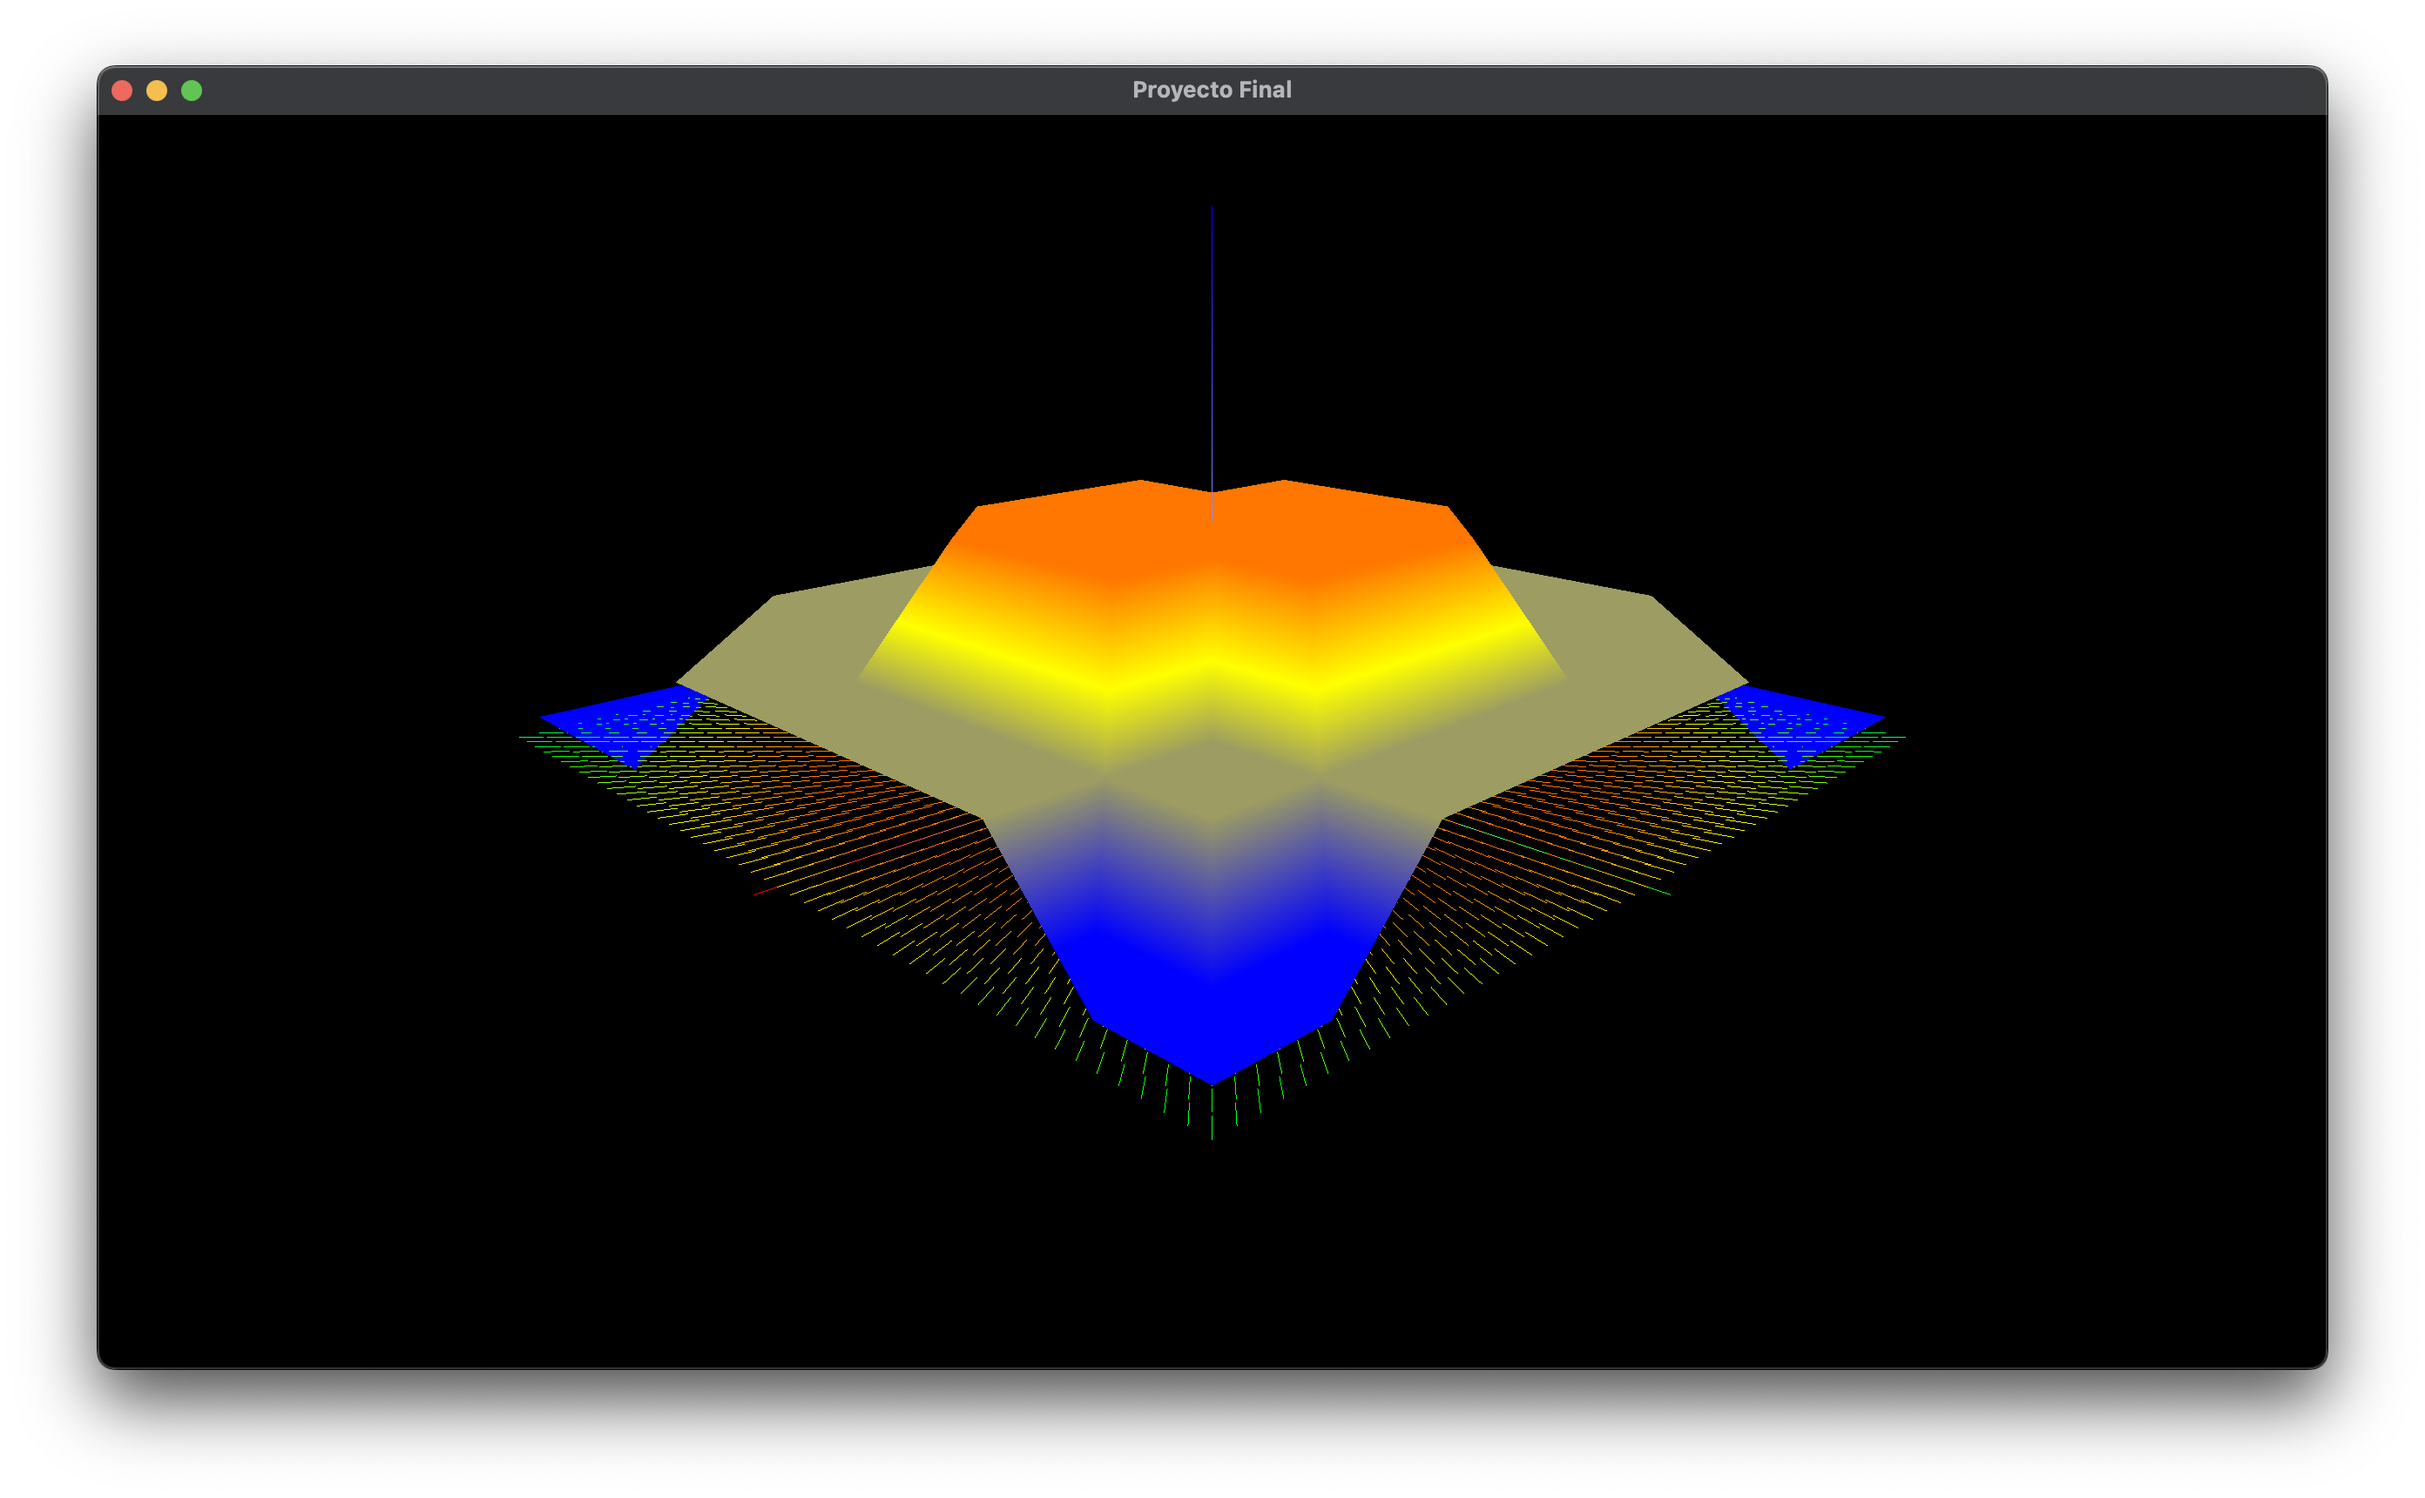
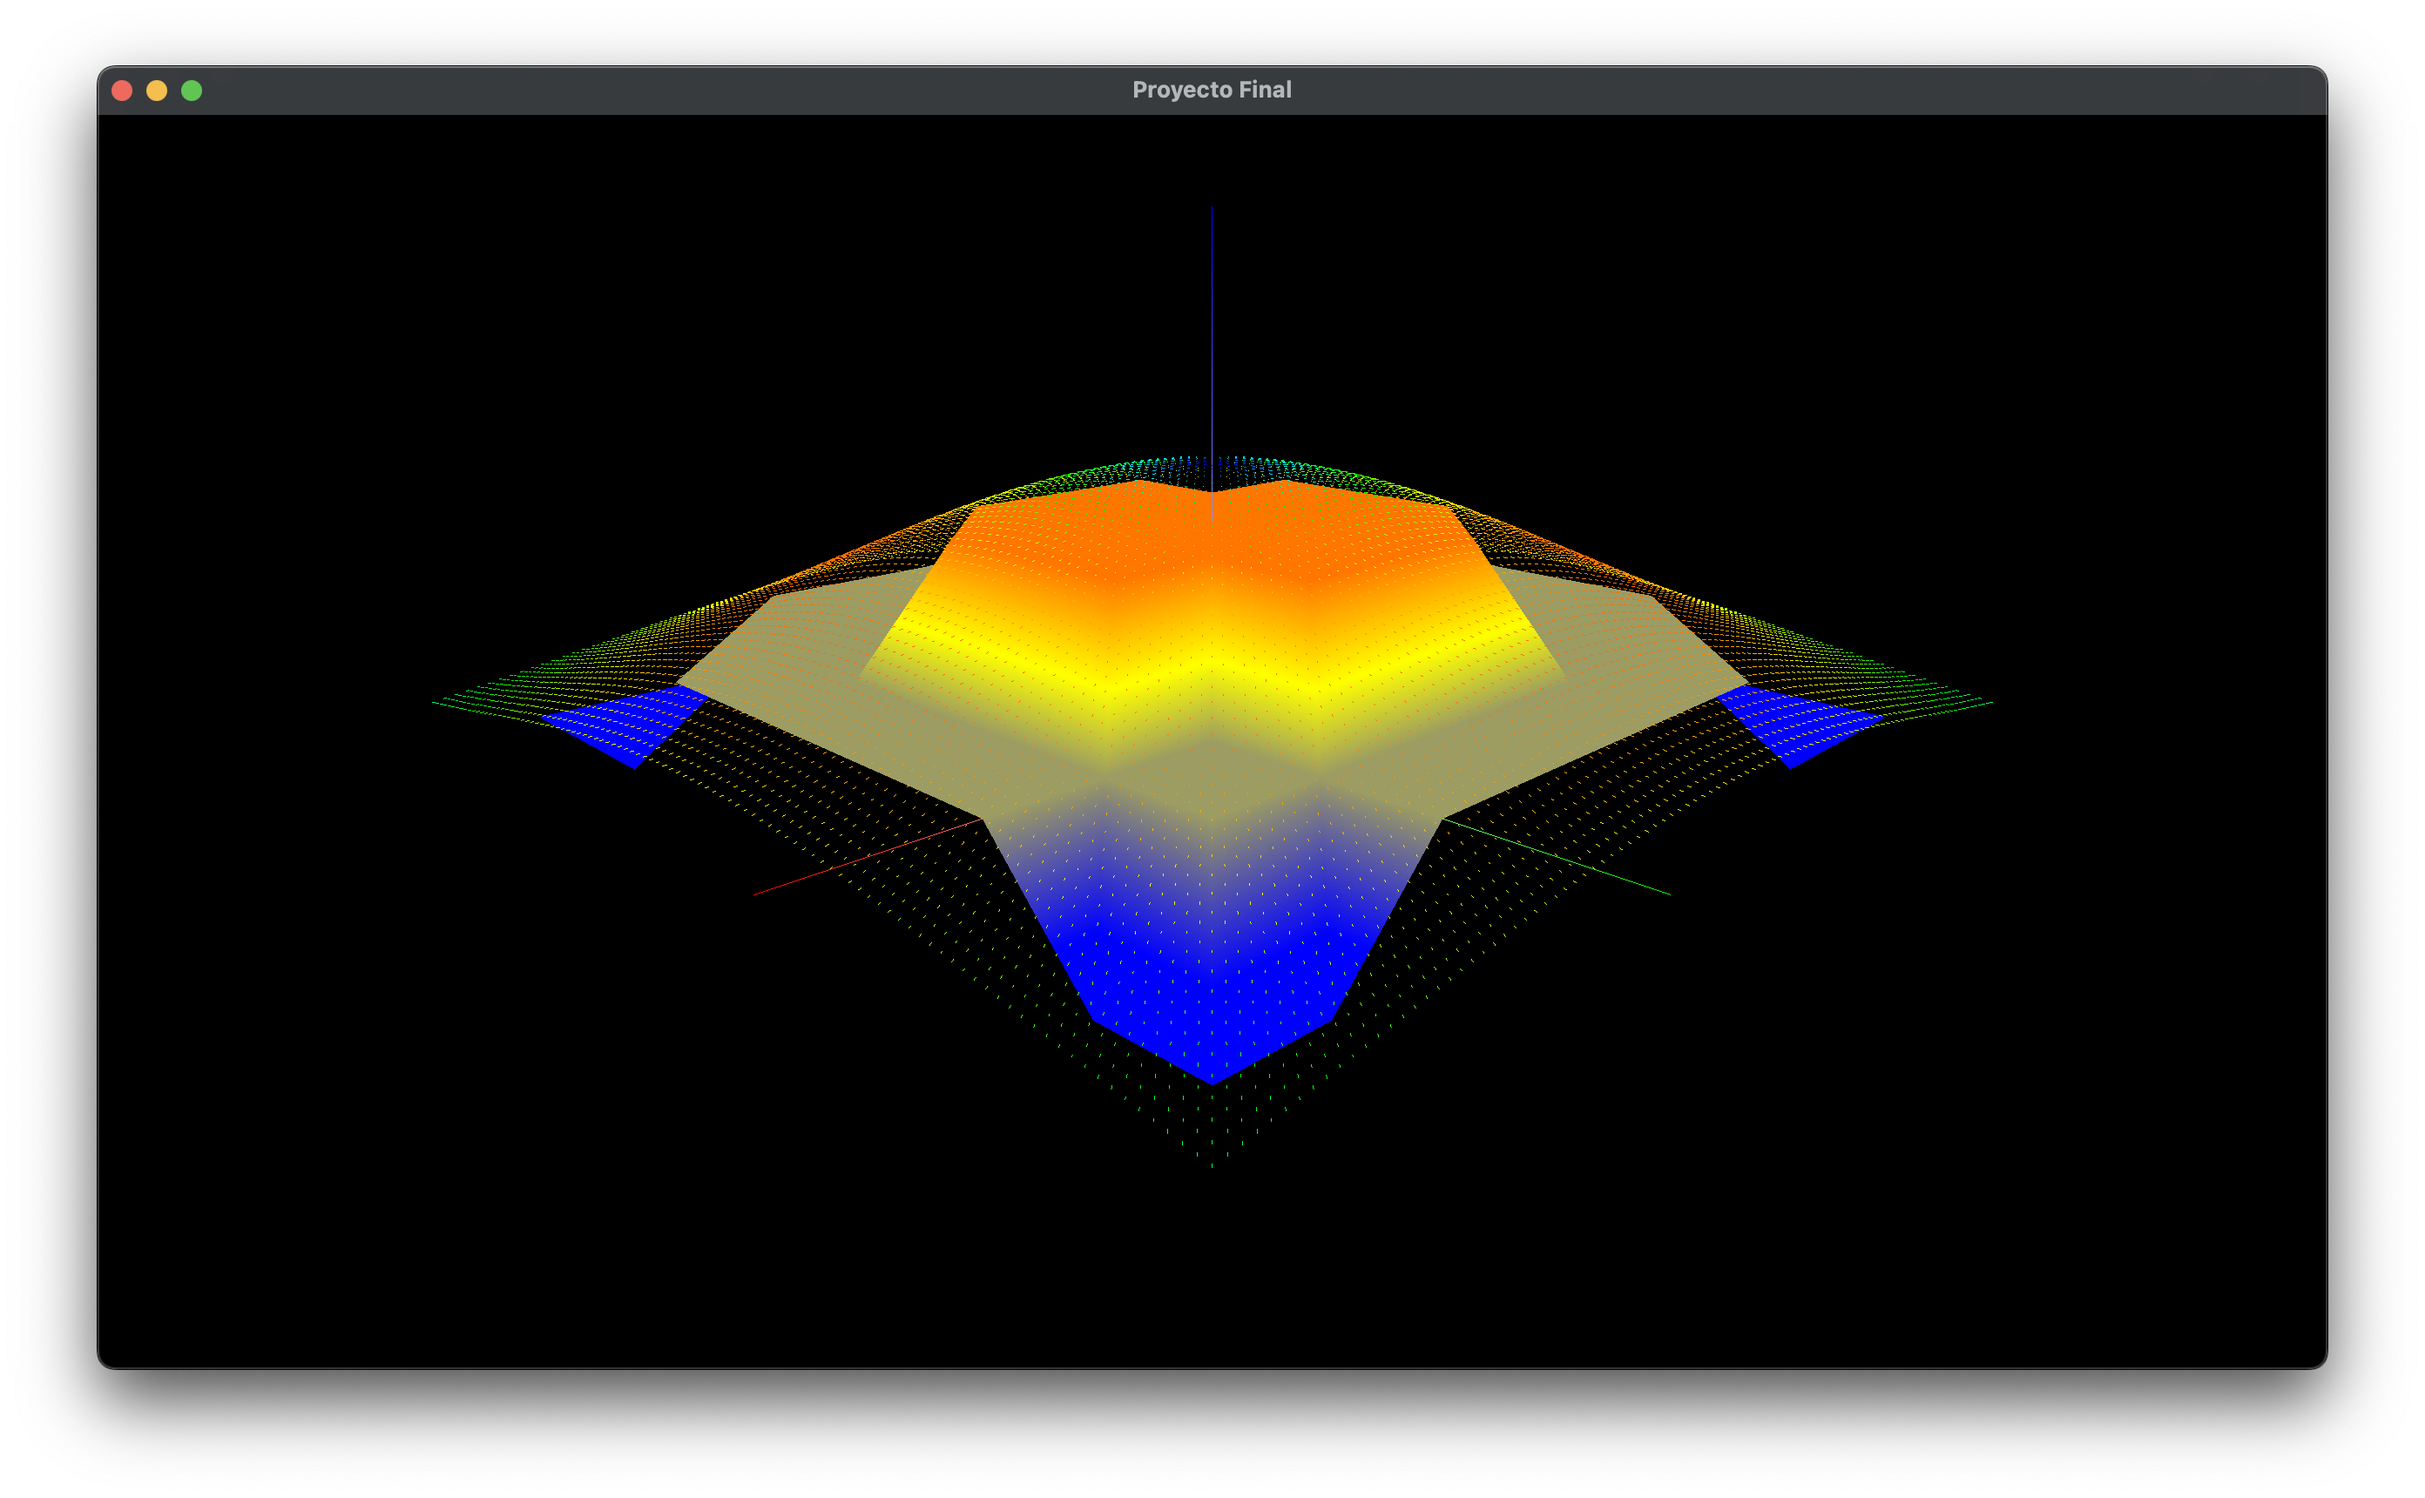
FF: finally finished

diff --git a/ProyectoFinal/src/models/Line.cpp b/ProyectoFinal/src/models/Line.cpp
@@ -6,7 +6,7 @@
 void Line::initGeometry(){
     float x = m_x*m_new_scale;
     float z = m_z*m_new_scale;
-    vertices[0] = x; vertices[1] = 0; vertices[2] = z;
+    vertices[0] = x; vertices[1] = m_f->f(m_x,m_z)*(m_new_scale/2); vertices[2] = z;
     std::vector<float> gradient = m_f->grad(m_x,m_z);
     //std::cout<<"aaaa\n";
     float dx = gradient[0];
@@ -16,7 +16,7 @@ void Line::initGeometry(){
     dz = dz/norm;
     m_gradient_length = norm;
     //vertices[0] = m_x; vertices[1] = m_f->f(m_x,m_z); vertices[2] = m_z;
-    vertices[3] = x + 0.3*dx; vertices[4] = 0; vertices[5] = z+0.3*dz;
+    vertices[3] = x + 0.3*dx; vertices[4] =  (m_f->f(m_x,m_z)*(m_new_scale/2)+0.03*(dx*dx+dz*dz)); vertices[5] = z+0.3*dz;
     //std::cout << "Los puntos x, y: " << vertices[0]<<","<<vertices[2]<<"\n";
     //std::cout << "El gradiente: " << vertices[3]<<","<<vertices[5]<<"\n";
     indices[0] = 0; indices[1] = 1;

diff --git a/README.md b/README.md
@@ -48,5 +48,4 @@ Finalmente, es posible cambiar la resolución de la malla. Es decir, se tiene la
 
 ![alt text](media/resolution.gif)
 
-El mapa de color utilizado muestra los puntos más bajos de color azul, los medios de amarillo y los más altos de rojo. Para el campo esscalar, el mapa de color muesta en azul la norma del gradiente menor y en rojo la norma mayor.
-
+El mapa de color utilizado muestra los puntos más bajos de color azul, los medios de amarillo y los más altos de rojo. Para el campo escalar se utilizó el mapa de color arcoiris, el cual muestra de colores fríos los gradientes cuya norma es menor y de cálidos la que es mayor.
